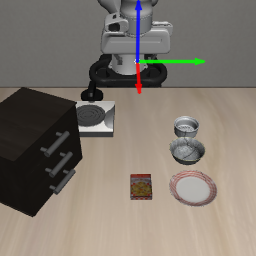
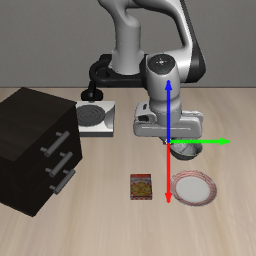
add train dp basis with wrist cam

Changed region(s): [[0.375, 0.0, 0.9062, 0.8125]]

diff --git a/lerobot/common/datasets/viz_utils.py b/lerobot/common/datasets/viz_utils.py
@@ -507,7 +507,7 @@ def _rescale_make_motion_basis_axis_rgb_tensor_cam_to_world(
             origin_xy = (ox, oy)
             cv2.circle(img_bgr, origin_xy, 3, (255, 255, 255), -1)
 
-            axis_phys_len_m = 0.20  # 10cm가 action 단위면 이렇게 (원하는 값으로)
+            axis_phys_len_m = 0.10  # 10cm가 action 단위면 이렇게 (원하는 값으로)
             arrow_len_min, arrow_len_max = 1, 1000
             axis_len_list = [arrow_len, arrow_len, arrow_len]
             basis_draw = None
@@ -630,3 +630,182 @@ def motion_basis_and_scale_jacobian(
         scale_px_per_m[i] = mag
 
     return basis_uv, scale_px_per_m
+
+
+def _basis_from_local_projection(K_np, c2w_np, p_world, eps=0.02):
+    """
+    Returns (3,2) basis in pixel coords (du,dv), normalized.
+    """
+    uv0 = project_world_point_to_pixel_cam_to_world(K_np, c2w_np, p_world)
+    if uv0 is None:
+        return None
+
+    uv0 = np.array(uv0, dtype=np.float32)
+    basis = np.zeros((3, 2), dtype=np.float32)
+
+    for i in range(3):
+        dp = np.zeros(3, dtype=np.float32)
+        dp[i] = eps  # +x, +y, +z in world/base frame
+        uvi = project_world_point_to_pixel_cam_to_world(K_np, c2w_np, p_world + dp)
+        if uvi is None:
+            basis[i] = 0
+            continue
+
+        duv = np.array(uvi, dtype=np.float32) - uv0
+        n = np.linalg.norm(duv) + 1e-6
+        basis[i] = duv / n
+
+    return basis
+
+
+
+def _make_motion_basis_wrist_axis_rgb_tensor_cam_to_world(
+        rgb_tensor: torch.Tensor,                  # (3,H,W) or (B,3,H,W) in [0,1]
+        intrinsic_matrix: np.ndarray | torch.Tensor | None = None,  # (3,3) shared
+        cam_to_world: np.ndarray | torch.Tensor | None = None,      # (4,4) shared
+        robot_eef_abs_poses: np.ndarray | torch.Tensor | None = None,  # (7,) or (B,7)
+        origin_robot: bool = False,
+        origin_fallback: str = "pp",               # "pp" or "center"
+        arrow_len: int = 60,
+        line_thickness: int = 2,
+        return_overlay: bool = False,
+        overlay_alpha: float = 0.85,
+    ):
+        """
+        Returns:
+        - unbatched input (3,H,W): (axis_tensor: (3,H,W), origin_xy: (ox,oy))
+        - batched input (B,3,H,W): (axis_tensor: (B,3,H,W), origins: List[(ox,oy)])
+        """
+
+        def to_numpy(x):
+            if x is None:
+                return None
+            if isinstance(x, torch.Tensor):
+                return x.detach().cpu().numpy()
+            return np.asarray(x)
+
+        # --- normalize rgb to batched ---
+        input_batched = (rgb_tensor.ndim == 4)
+        if rgb_tensor.ndim == 3:
+            rgb_b = rgb_tensor.unsqueeze(0)  # (1,3,H,W)
+        elif rgb_tensor.ndim == 4:
+            rgb_b = rgb_tensor              # (B,3,H,W)
+        else:
+            raise ValueError(f"rgb_tensor must be (3,H,W) or (B,3,H,W), got {tuple(rgb_tensor.shape)}")
+
+        B, C, H, W = rgb_b.shape
+        if C < 3:
+            raise ValueError(f"rgb_tensor must have at least 3 channels, got C={C}")
+
+        # --- shared K, c2w as numpy (for projection) ---
+        K_np = to_numpy(intrinsic_matrix) if intrinsic_matrix is not None else None
+        c2w_np = to_numpy(cam_to_world) if cam_to_world is not None else None
+
+        if origin_robot:
+            if K_np is None or c2w_np is None:
+                # origin_robot=True인데 K/c2w가 없으면 투영 불가 -> fallback으로 처리
+                pass
+            else:
+                if K_np.shape != (3, 3):
+                    raise ValueError(f"intrinsic_matrix must be (3,3), got {K_np.shape}")
+                if c2w_np.shape != (4, 4):
+                    raise ValueError(f"cam_to_world must be (4,4), got {c2w_np.shape}")
+
+        # --- eef poses normalize ---
+        eef_np = None
+        if robot_eef_abs_poses is not None:
+            eef_np = to_numpy(robot_eef_abs_poses)
+            # allow (7,) or (B,7)
+            if eef_np.ndim == 1:
+                if eef_np.shape[0] != 7:
+                    raise ValueError(f"robot_eef_abs_poses must be (7,) got {eef_np.shape}")
+                eef_np = np.broadcast_to(eef_np[None, :], (B, 7))
+            elif eef_np.ndim == 2:
+                if eef_np.shape != (B, 7):
+                    raise ValueError(f"robot_eef_abs_poses must be (B,7) got {eef_np.shape}, expected {(B,7)}")
+            else:
+                raise ValueError(f"robot_eef_abs_poses must be (7,) or (B,7), got ndim={eef_np.ndim}")
+
+        axis_list = []
+        origins = []
+
+        for b in range(B):
+            rgb_i = rgb_b[b]
+            H_i, W_i = int(rgb_i.shape[1]), int(rgb_i.shape[2])
+
+            # 1) origin from EEF projection if available
+            ox = oy = None
+            if origin_robot and (c2w_np is not None) and (eef_np is not None) and (K_np is not None):
+                p_world = eef_np[b, :3]  # (3,)
+                uv = project_world_point_to_pixel_cam_to_world(K_np, c2w_np, p_world)
+                if uv is not None:
+                    u, v = uv
+                    ox = int(round(float(u))); oy = int(round(float(v)))
+                    ox = max(0, min(W_i - 1, ox))
+                    oy = max(0, min(H_i - 1, oy))
+
+            # 2) fallback origin
+            if ox is None or oy is None:
+                if origin_fallback == "pp":
+                    if K_np is None:
+                        ox, oy = W_i // 2, H_i // 2
+                    else:
+                        ox, oy = int(round(float(K_np[0, 2]))), int(round(float(K_np[1, 2])))
+                        ox = max(0, min(W_i - 1, ox))
+                        oy = max(0, min(H_i - 1, oy))
+                elif origin_fallback == "center":
+                    ox, oy = W_i // 2, H_i // 2
+                else:
+                    raise ValueError("origin_fallback must be 'pp' or 'center'")
+
+            # draw base
+            if return_overlay:
+                base_rgb = (rgb_i[:3].detach().clamp(0, 1).permute(1, 2, 0).cpu().numpy() * 255.0).astype(np.uint8)
+            else:
+                base_rgb = np.zeros((H_i, W_i, 3), dtype=np.uint8)
+
+            img_bgr = cv2.cvtColor(base_rgb, cv2.COLOR_RGB2BGR)
+
+            colors = [(255, 0, 0), (0, 255, 0), (0, 0, 255)]  # BGR: x=red y=green z=blue
+            origin_xy = (ox, oy)
+            cv2.circle(img_bgr, origin_xy, 3, (255, 255, 255), -1)
+            basis_np = None
+            if (K_np is not None) and (c2w_np is not None) and (eef_np is not None):
+                basis_np = _basis_from_local_projection(K_np, c2w_np, eef_np[b, :3], eps=0.02)
+            else:
+                print("Warning: cannot compute local projection basis, using global basis")
+            for i in range(3):
+                du = float(basis_np[i, 0])
+                dv = -float(basis_np[i, 1])  # image v-axis flip
+
+                end_xy = (int(round(ox + arrow_len * du)),
+                        int(round(oy + arrow_len * dv)))
+
+                draw_clipped_arrow_fixed_head(
+                    img_bgr,
+                    origin_xy,
+                    end_xy,
+                    colors[i],
+                    thickness=line_thickness,
+                    head_len_px=8,
+                    head_w_px=6,
+                )
+            out_rgb = cv2.cvtColor(img_bgr, cv2.COLOR_BGR2RGB)  # uint8
+
+            if return_overlay:
+                rgb_u8 = (rgb_i[:3].detach().clamp(0, 1).permute(1, 2, 0).cpu().numpy() * 255.0).astype(np.uint8)
+                out_rgb = (overlay_alpha * out_rgb + (1.0 - overlay_alpha) * rgb_u8).astype(np.uint8)
+
+            axis_tensor_i = torch.from_numpy(out_rgb).float().permute(2, 0, 1) / 255.0
+            axis_tensor_i = axis_tensor_i.to(device=rgb_tensor.device)
+
+            axis_list.append(axis_tensor_i)
+            origins.append((ox, oy))
+
+        axis_tensor = torch.stack(axis_list, dim=0)  # (B,3,H,W)
+
+        if input_batched:
+            return axis_tensor, origins
+        else:
+            return axis_tensor[0], origins[0]
+

diff --git a/lerobot/common/datasets/lerobot_dataset.py b/lerobot/common/datasets/lerobot_dataset.py
@@ -81,6 +81,7 @@ from lerobot.common.datasets.camera_utils import (
 )
 from lerobot.common.datasets.viz_utils import (
     _rescale_make_motion_basis_axis_rgb_tensor_cam_to_world,
+    _make_motion_basis_wrist_axis_rgb_tensor_cam_to_world,
 )
 from lerobot.common.robot_devices.robots.utils import Robot
 from lerobot.common.datasets.viz_utils import (
@@ -1871,6 +1872,7 @@ class MultiLeRobotDataset(torch.utils.data.Dataset):
                                 arrow_len=60,
                                 return_overlay=False,
                             )
+                            # save_rgb_image(wrist_axis_tensor[0], "tmp_dir/wrist_scaled_axis_tensor.png")
                             item['observation.wrist_image'] = torch.cat([wrist_img, wrist_axis_tensor], dim=1)
                         except:
                             pass
@@ -1887,8 +1889,27 @@ class MultiLeRobotDataset(torch.utils.data.Dataset):
                             arrow_len=60,
                             return_overlay=False,
                         ) # (B, 3, H, W)
+                        try:
+                            wrist_img = item['observation.wrist_image']
+                            wrist_intrinsic_matrix = item['wrist_intrinsic_matrix']
+                            wrist_extrinsic_matrix = item['wrist_extrinsic_matrix']
+                            wrist_plucker_extrinsic_matrix = remove_extrinsic_camera_axis_correction(wrist_extrinsic_matrix)
+                            wrist_axis_tensor, wrist_origin_xy = _make_motion_basis_wrist_axis_rgb_tensor_cam_to_world(
+                                rgb_tensor=wrist_img,
+                                cam_to_world=wrist_plucker_extrinsic_matrix,
+                                intrinsic_matrix=wrist_intrinsic_matrix,
+                                robot_eef_abs_poses=robot_state[:, -7:],
+                                origin_robot=True,
+                                origin_fallback="pp",
+                                arrow_len=60,
+                                return_overlay=False,
+                            )
+                            # save_rgb_image(wrist_axis_tensor[0], "tmp_dir/wrist_non_scaled_axis_tensor.png")
+                            item['observation.wrist_image'] = torch.cat([wrist_img, wrist_axis_tensor], dim=1)
+                        except:
+                            pass
                 item['observation.image'] = torch.cat([img, axis_tensor], dim=1)
-                # save_rgb_image(axis_tensor[0], "tmp_dir/axis_tensor.png")
+                save_rgb_image(axis_tensor[0], "tmp_dir/axis_tensor.png")
                 # save_rgb_image(item['observation.image'][0], "tmp_dir/robot_image.png")
                 
         except Exception as e:
